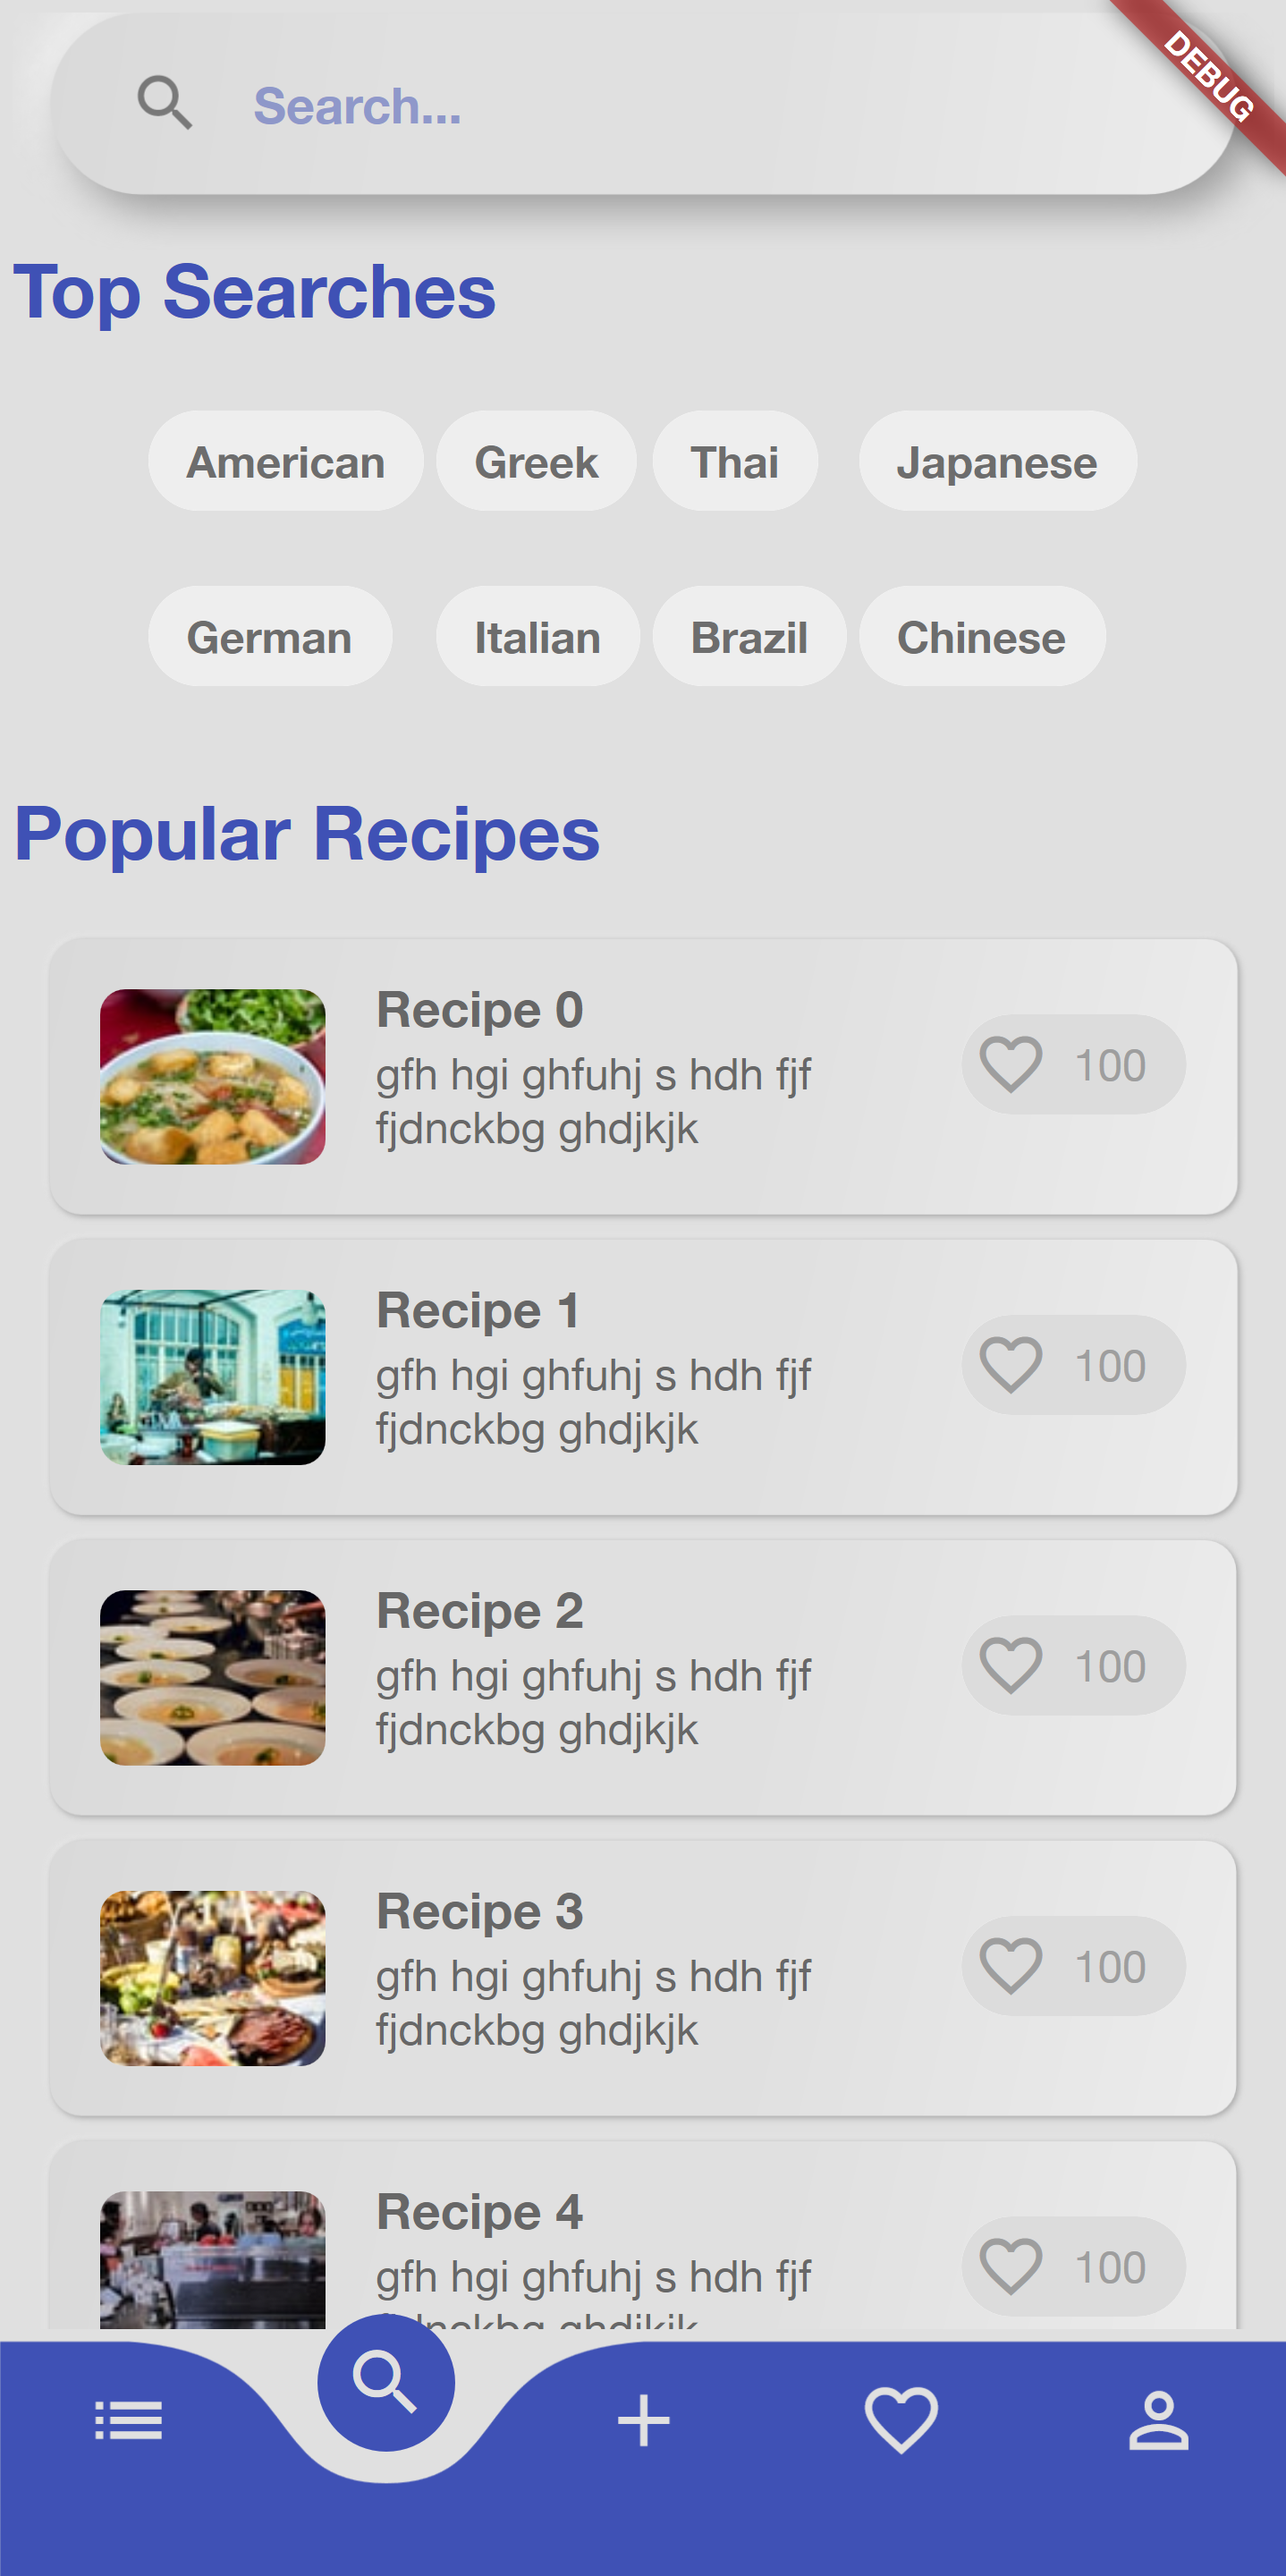
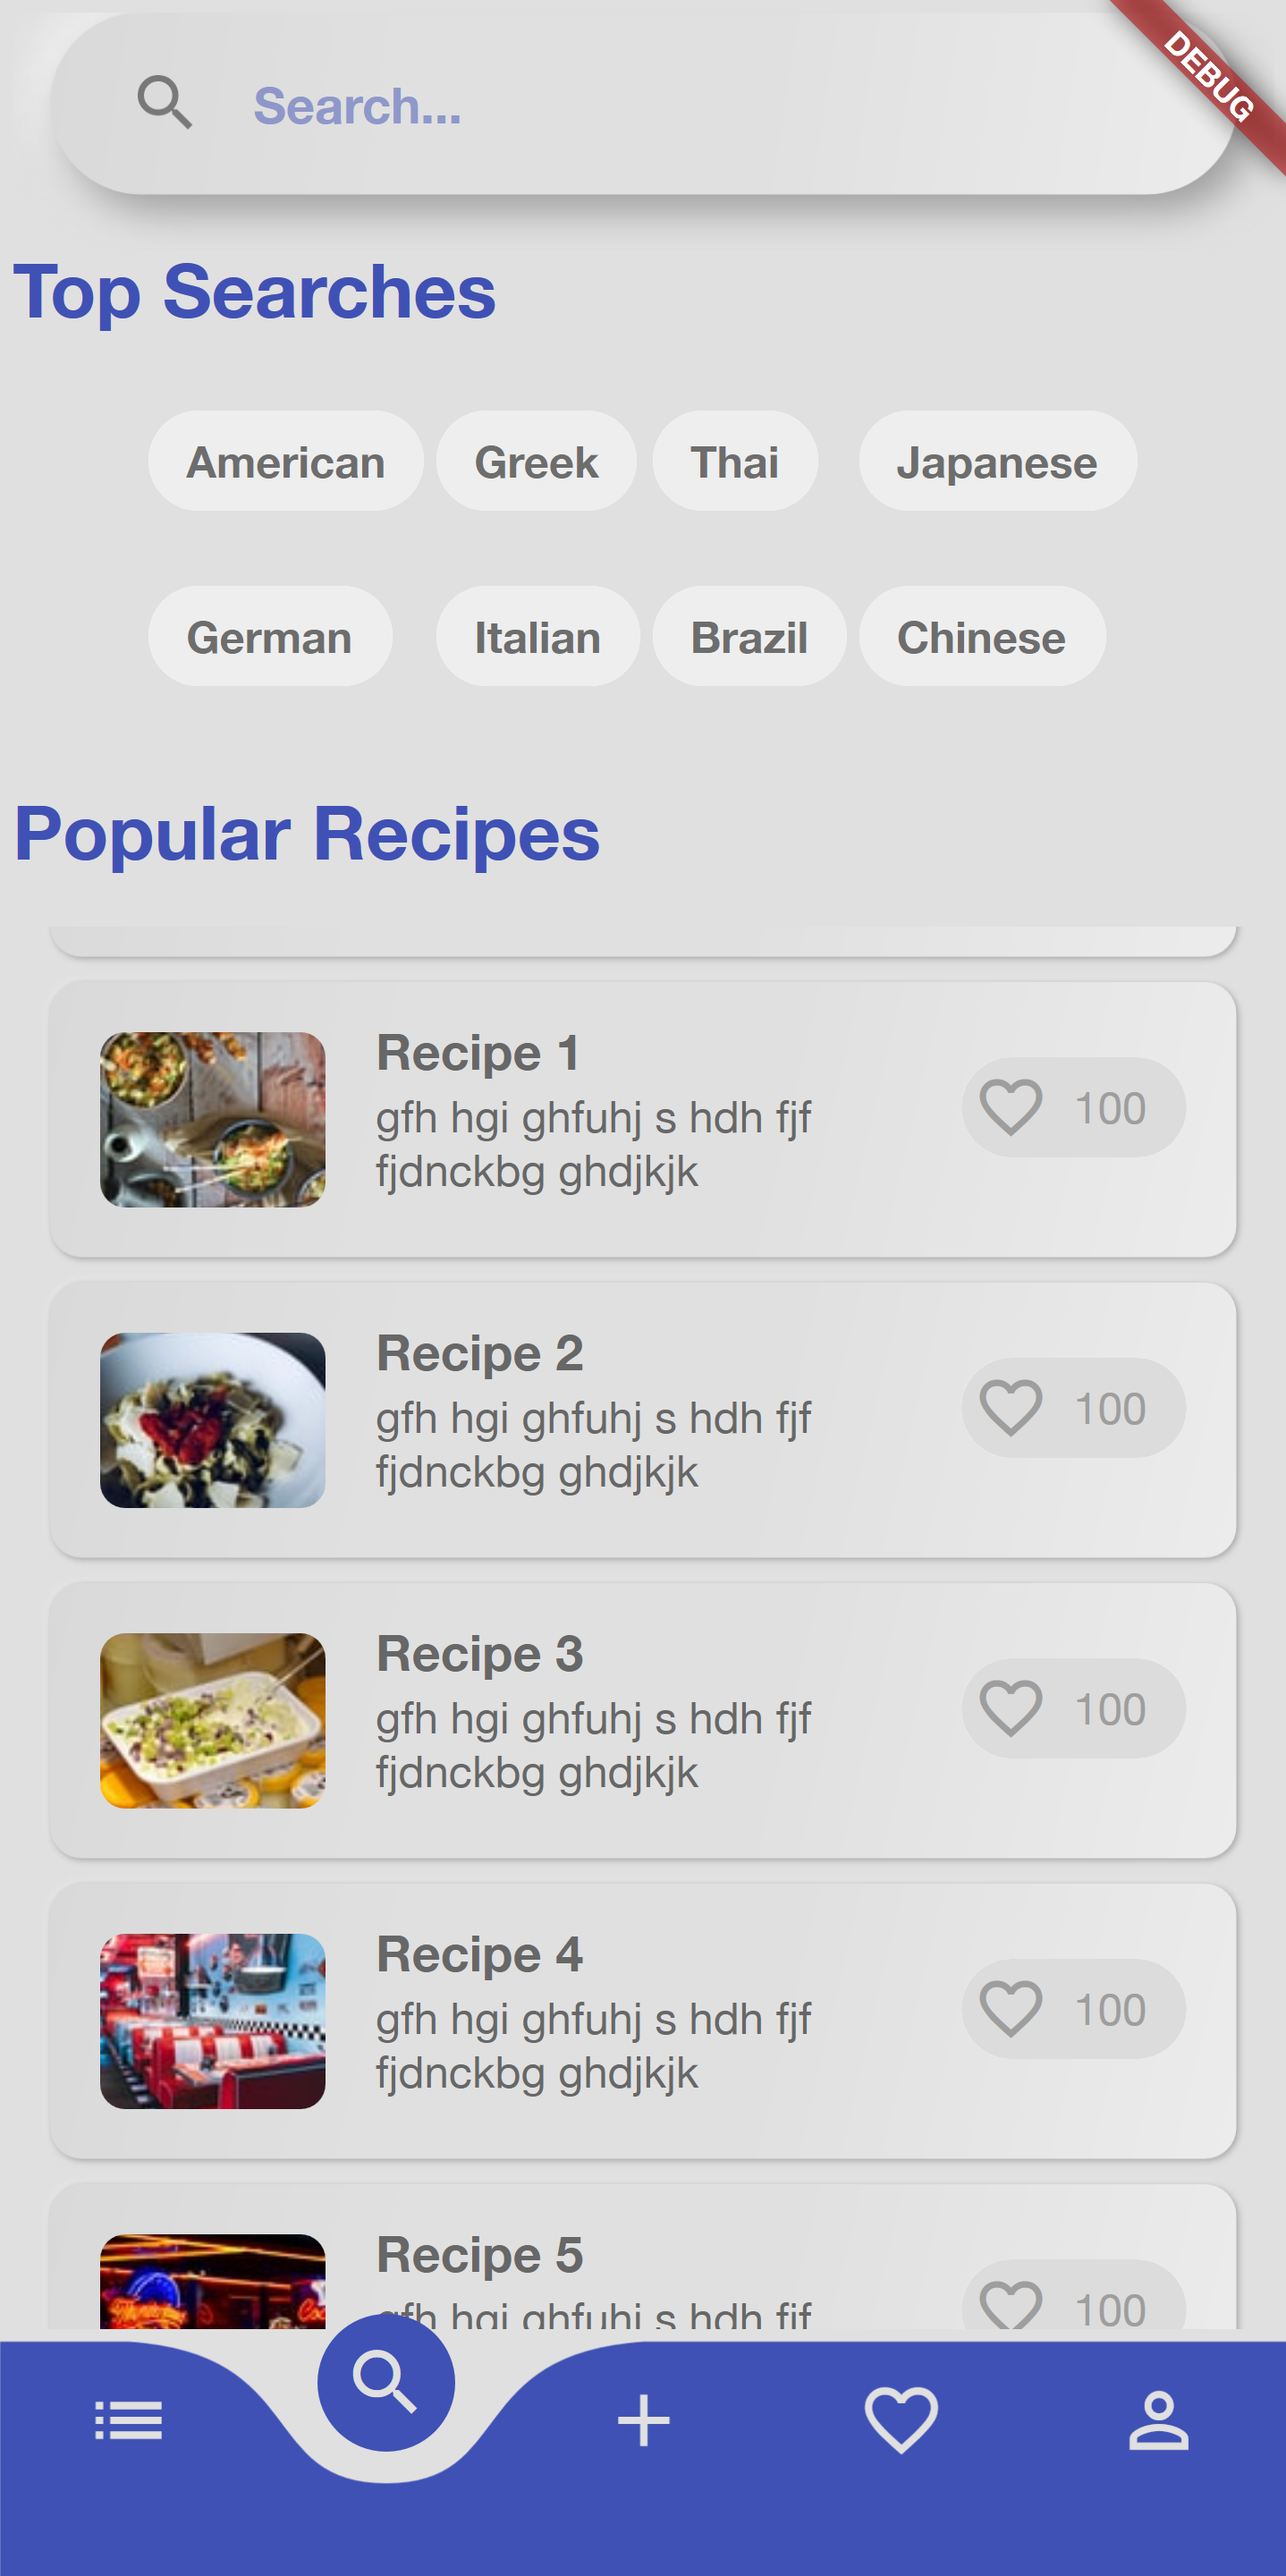
Updated screenshots

diff --git a/lib/screens/highlights-screen.dart b/lib/screens/highlights-screen.dart
@@ -49,7 +49,7 @@ class _HighlightsScreenState extends State<HighlightsScreen> {
                     ClipRRect(
                       borderRadius: BorderRadius.circular(8),
                       child: Image.network(
-                        'https://source.unsplash.com/96x72/?cuisine $index',
+                        'https://source.unsplash.com/96x72/?food $index',
                         width: 96,
                         height: 72,
                         fit: BoxFit.cover,

diff --git a/lib/screens/components/recipe-list-large-preview.dart b/lib/screens/components/recipe-list-large-preview.dart
@@ -40,7 +40,7 @@ Widget _backgroundImage(double width, double height, int index) {
   return ClipRRect(
     borderRadius: BorderRadius.circular(8),
     child: Image.network(
-      'https://source.unsplash.com/${width}x$height/?cuisine $index',
+      'https://source.unsplash.com/${width}x$height/?food $index',
       width: width,
       height: height,
       fit: BoxFit.cover,

diff --git a/lib/screens/home-screen.dart b/lib/screens/home-screen.dart
@@ -46,7 +46,7 @@ class _HomePageState extends State<HomePage> {
     return SafeArea(
       child: Scaffold(
         body: Padding(
-          padding: EdgeInsets.all(16),
+          padding: EdgeInsets.all(4),
           child: PageView(
             controller: _pageController,
             children: [
